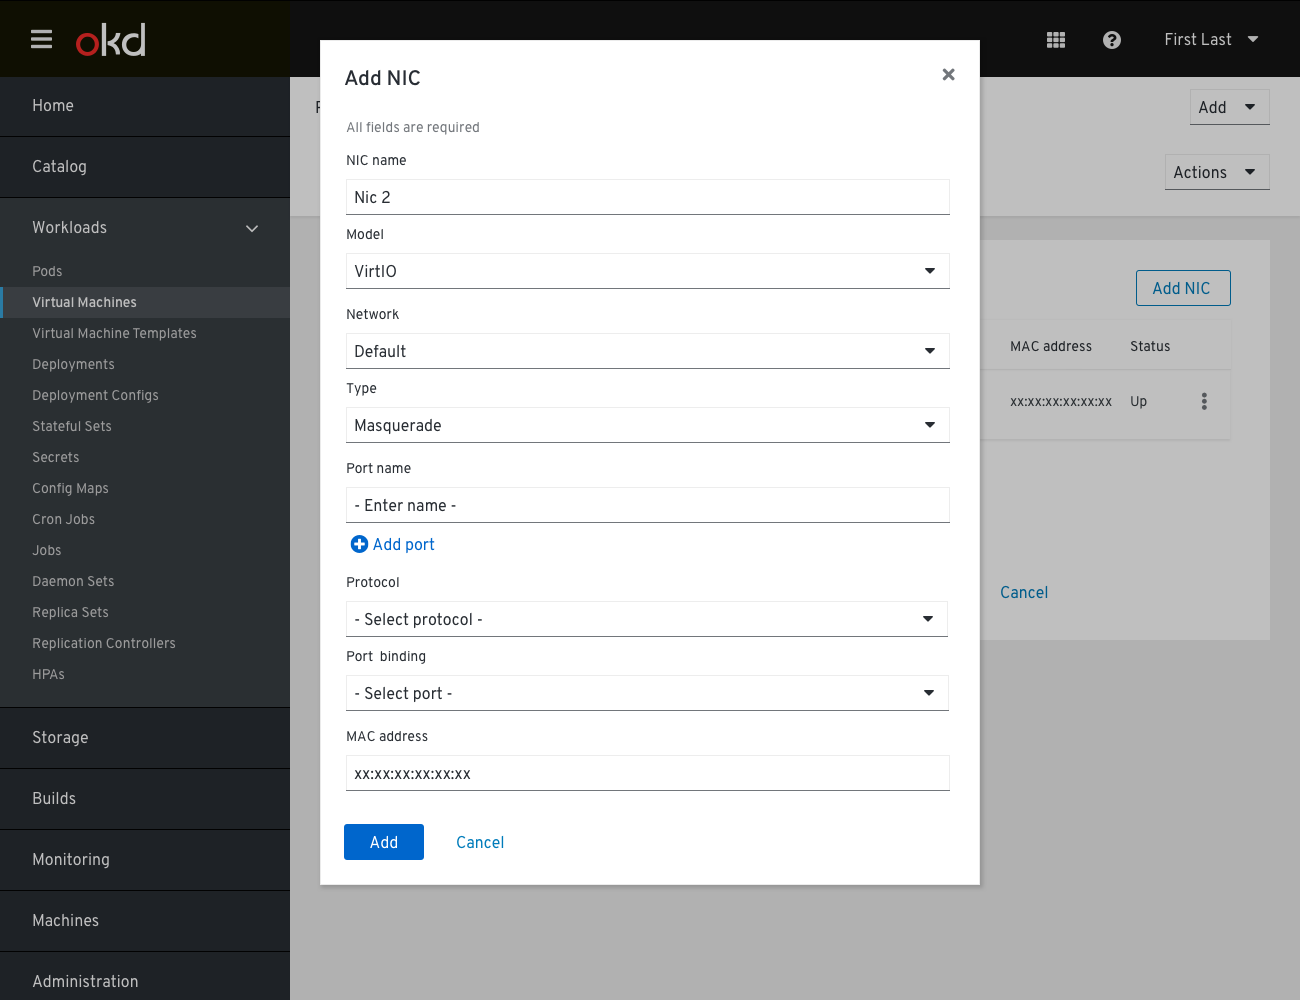
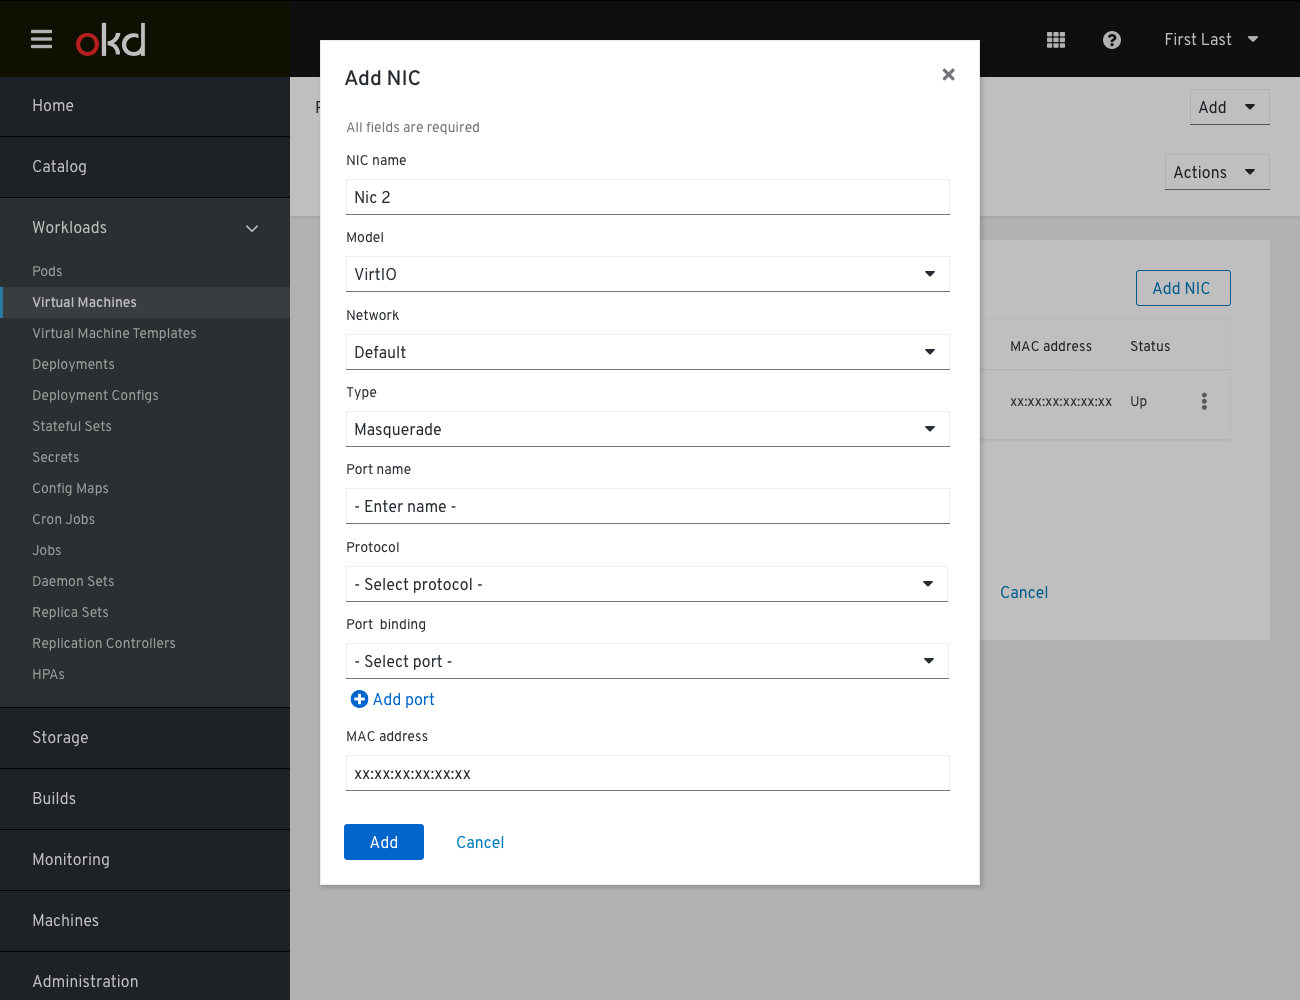
text change and nit

Changed region(s): [[0.2462, 0.465, 0.3692, 0.713], [0.2769, 0.31, 0.3385, 0.434], [0.2769, 0.217, 0.3077, 0.279]]

diff --git a/web-console/knikubevirt/Create-vm/2.networking/create-vm-networking.md b/web-console/knikubevirt/Create-vm/2.networking/create-vm-networking.md
@@ -9,7 +9,7 @@ The user enters the Networking step with an existing NIC pre-defined, set to Typ
 Clicking on 'Add NIC' will pop up a "Create NIC" modal. The NIC name is prepopulated with a numeric count form of existing NICs on this flow. The user may change the NIC name. All the fields are preselected except Type. In order for the user to apply and add this NIC, the user must select one of the type options.
 
 ![Type - Masquerade](img/3-02.png)
-In case the user selects Masquerade on the Type field, new indented fields will appear.
+In case the user selects Masquerade on the Type field, new fields will appear: Port name, Protocol and Port binding.
 
 When adding a new NIC we allow the user to add more than one port, so once the user enters the name for the first port we have another field popping up below where they can add another one.
 
